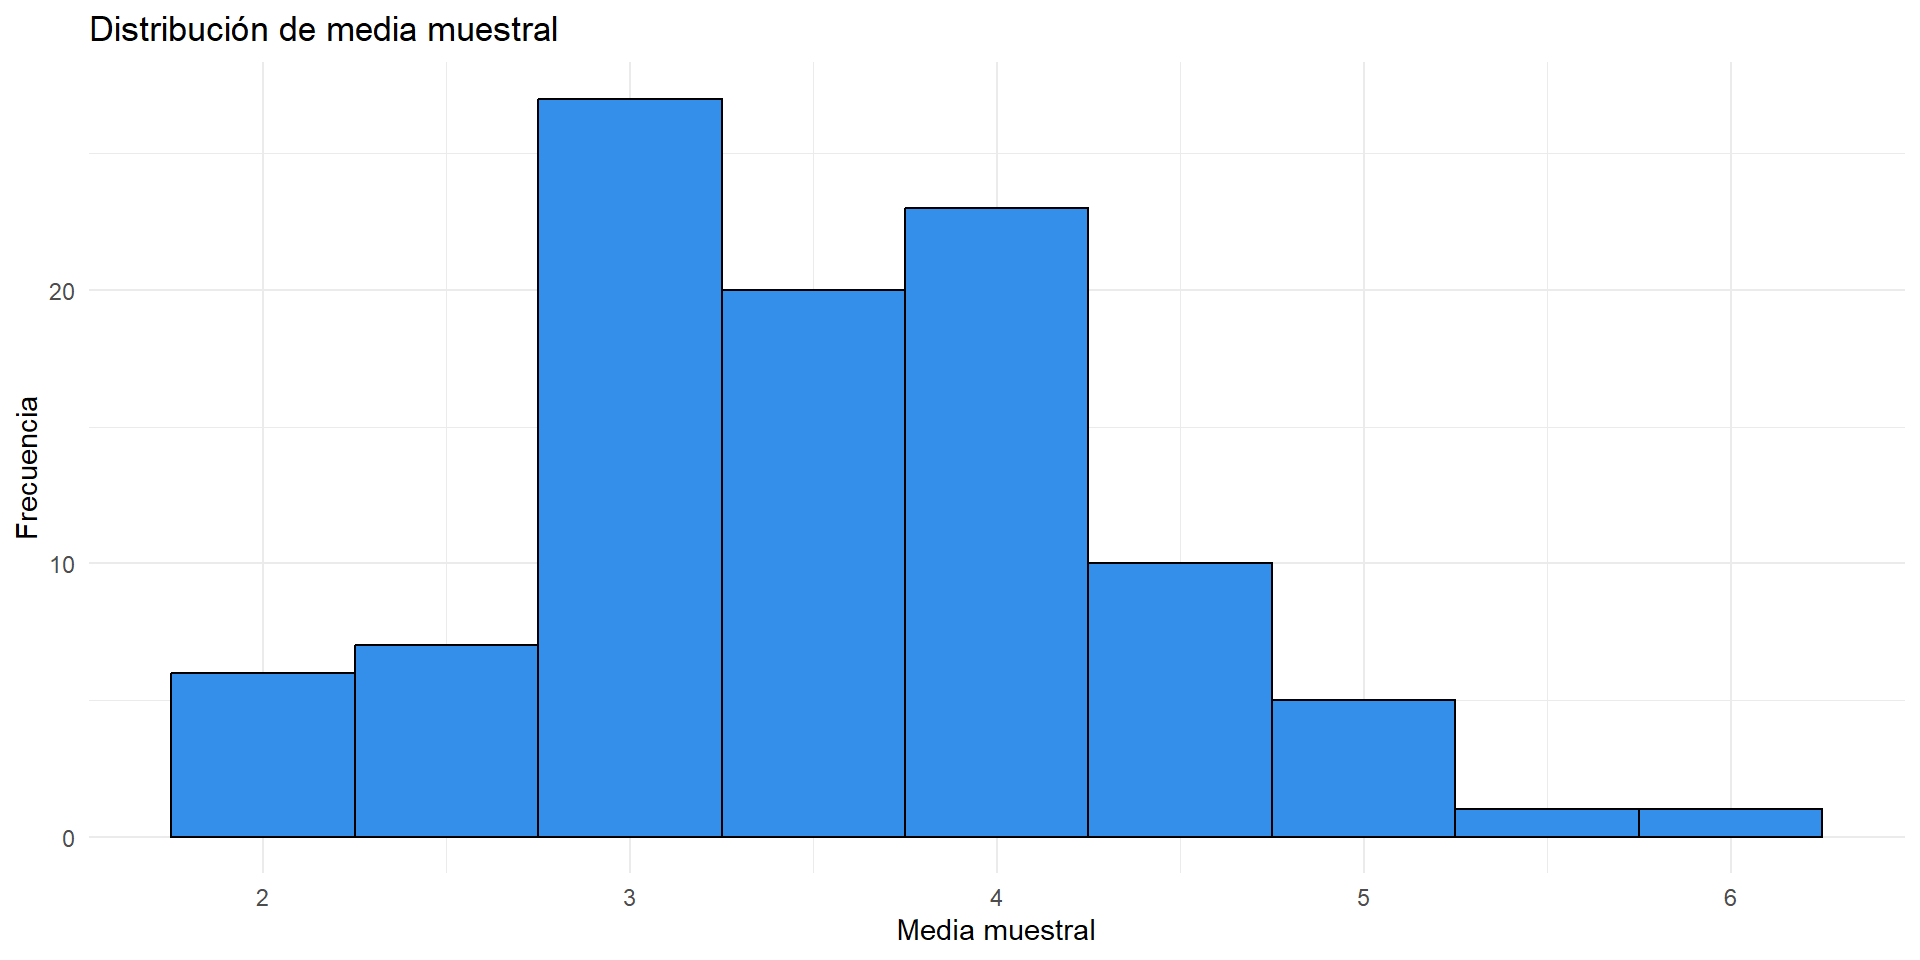
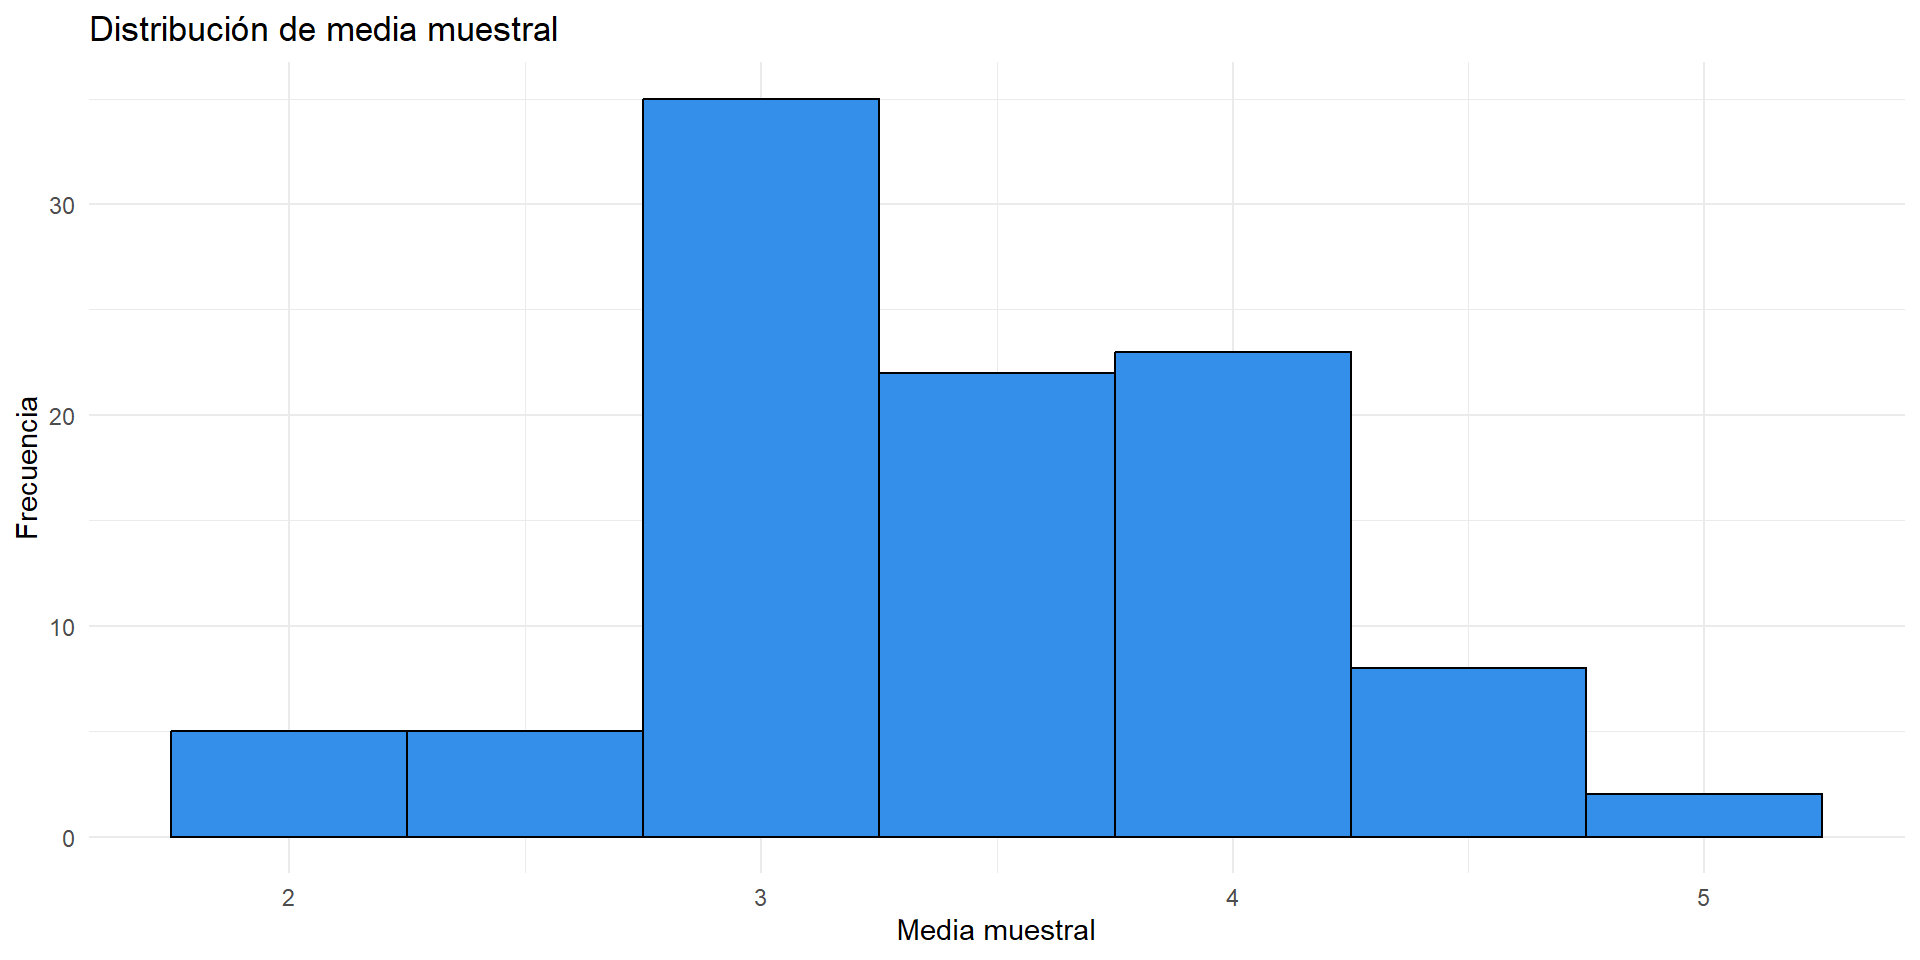
Rendering again

Changed region(s): [[0.375, 0.0938, 0.9688, 0.8438], [0.0625, 0.0938, 0.3438, 0.7812]]

diff --git a/clase4/prob_zscore.html b/clase4/prob_zscore.html
@@ -772,18 +772,18 @@ Probabilidad, Z-Score y Distribuciones Muestrales
 <span id="cb1-7"><a href="#cb1-7"></a></span>
 <span id="cb1-8"><a href="#cb1-8"></a>muestra_de_5</span></code><button title="Copy to Clipboard" class="code-copy-button"><i class="bi"></i></button></pre></div>
 <div class="cell-output cell-output-stdout">
-<pre><code>[1] 4 6 2 2 5</code></pre>
+<pre><code>[1] 4 1 3 3 6</code></pre>
 </div>
 <div class="sourceCode cell-code" id="cb3"><pre class="sourceCode numberSource r number-lines code-with-copy"><code class="sourceCode r"><span id="cb3-1"><a href="#cb3-1"></a><span class="do">## Y calculemos su media</span></span>
 <span id="cb3-2"><a href="#cb3-2"></a><span class="fu">mean</span>(muestra_de_5)</span></code><button title="Copy to Clipboard" class="code-copy-button"><i class="bi"></i></button></pre></div>
 <div class="cell-output cell-output-stdout">
-<pre><code>[1] 3.8</code></pre>
+<pre><code>[1] 3.4</code></pre>
 </div>
 <div class="sourceCode cell-code" id="cb5"><pre class="sourceCode numberSource r number-lines code-with-copy"><code class="sourceCode r"><span id="cb5-1"><a href="#cb5-1"></a><span class="do">## Otra manera de calcular la media</span></span>
 <span id="cb5-2"><a href="#cb5-2"></a><span class="do">## de una muestra de 5</span></span>
 <span id="cb5-3"><a href="#cb5-3"></a><span class="fu">sample</span>(dado, <span class="dv">5</span>, <span class="at">replace =</span> <span class="cn">TRUE</span>) <span class="sc">%&gt;%</span> <span class="fu">mean</span>()</span></code><button title="Copy to Clipboard" class="code-copy-button"><i class="bi"></i></button></pre></div>
 <div class="cell-output cell-output-stdout">
-<pre><code>[1] 2.6</code></pre>
+<pre><code>[1] 2.8</code></pre>
 </div>
 </div>
 </div><div class="column" style="width:50%;">
@@ -807,17 +807,17 @@ Probabilidad, Z-Score y Distribuciones Muestrales
 <span id="cb7-7"><a href="#cb7-7"></a></span>
 <span id="cb7-8"><a href="#cb7-8"></a>muestra_de_5</span></code><button title="Copy to Clipboard" class="code-copy-button"><i class="bi"></i></button></pre></div>
 <div class="cell-output cell-output-stdout">
-<pre><code>[1] 6 4 4 4 1</code></pre>
+<pre><code>[1] 6 6 4 3 3</code></pre>
 </div>
 <div class="sourceCode cell-code" id="cb9"><pre class="sourceCode numberSource r number-lines code-with-copy"><code class="sourceCode r"><span id="cb9-1"><a href="#cb9-1"></a><span class="do">## Y calculemos su media</span></span>
 <span id="cb9-2"><a href="#cb9-2"></a><span class="fu">mean</span>(muestra_de_5)</span></code><button title="Copy to Clipboard" class="code-copy-button"><i class="bi"></i></button></pre></div>
 <div class="cell-output cell-output-stdout">
-<pre><code>[1] 3.8</code></pre>
+<pre><code>[1] 4.4</code></pre>
 </div>
 <div class="sourceCode cell-code" id="cb11"><pre class="sourceCode numberSource r number-lines code-with-copy"><code class="sourceCode r"><span id="cb11-1"><a href="#cb11-1"></a><span class="do">## Otra manera de calcular la media de una muestra de 5</span></span>
 <span id="cb11-2"><a href="#cb11-2"></a><span class="fu">sample</span>(dado, <span class="dv">5</span>, <span class="at">replace =</span> <span class="cn">TRUE</span>) <span class="sc">%&gt;%</span> <span class="fu">mean</span>()</span></code><button title="Copy to Clipboard" class="code-copy-button"><i class="bi"></i></button></pre></div>
 <div class="cell-output cell-output-stdout">
-<pre><code>[1] 2.2</code></pre>
+<pre><code>[1] 3.6</code></pre>
 </div>
 </div>
 </section>
